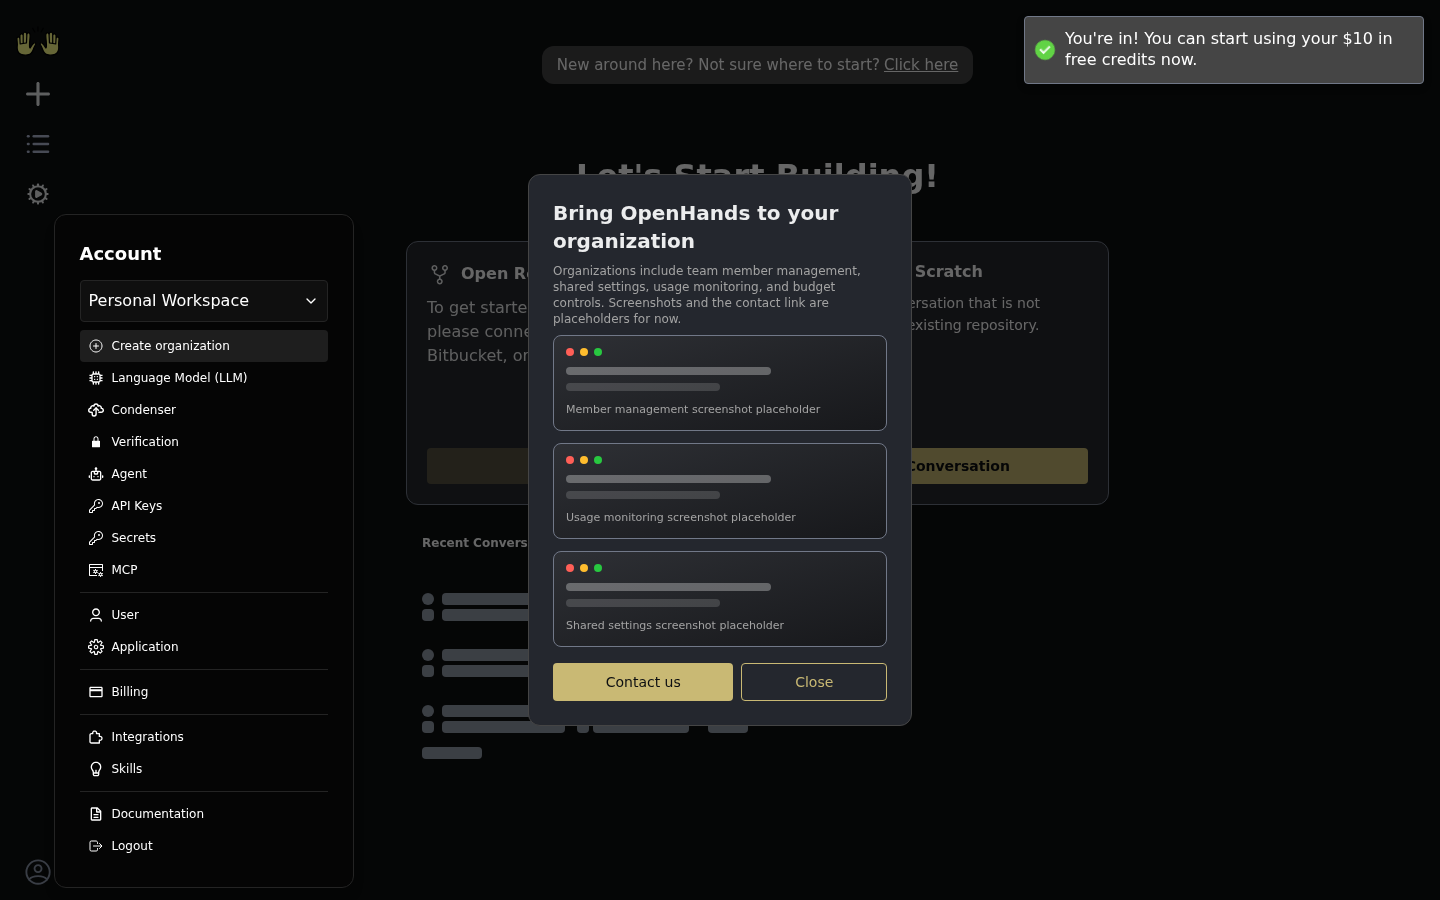
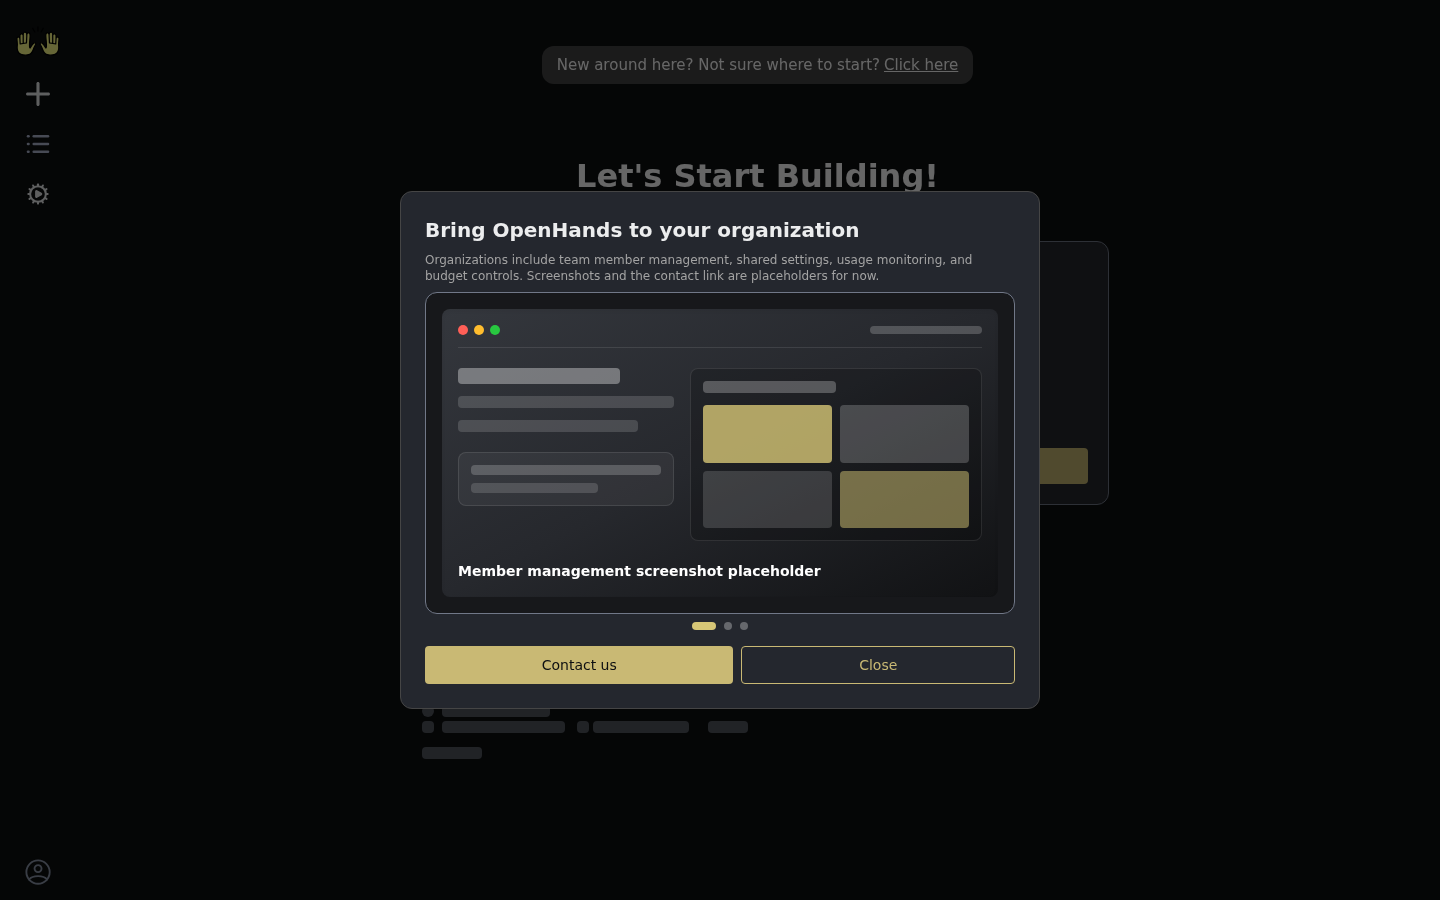
Polish organization preview carousel

diff --git a/frontend/src/components/features/org/organization-feature-preview-modal.tsx b/frontend/src/components/features/org/organization-feature-preview-modal.tsx
@@ -1,8 +1,12 @@
+import React from "react";
 import { useTranslation } from "react-i18next";
 import { OrgModal } from "#/components/shared/modals/org-modal";
 import { I18nKey } from "#/i18n/declaration";
+import { cn } from "#/utils/utils";
 
 const ORG_CONTACT_FORM_URL = "https://www.all-hands.dev/contact";
+const CAROUSEL_INTERVAL_MS = 3500;
+
 const screenshotPlaceholders = [
   I18nKey.ORG$FEATURE_PREVIEW_MEMBERS,
   I18nKey.ORG$FEATURE_PREVIEW_USAGE,
@@ -17,6 +21,20 @@ export function OrganizationFeaturePreviewModal({
   onClose,
 }: OrganizationFeaturePreviewModalProps) {
   const { t } = useTranslation();
+  const [activeSlide, setActiveSlide] = React.useState(0);
+  const hasMultipleSlides = screenshotPlaceholders.length > 1;
+
+  React.useEffect(() => {
+    if (!hasMultipleSlides) return undefined;
+
+    const interval = window.setInterval(() => {
+      setActiveSlide(
+        (currentSlide) => (currentSlide + 1) % screenshotPlaceholders.length,
+      );
+    }, CAROUSEL_INTERVAL_MS);
+
+    return () => window.clearInterval(interval);
+  }, [hasMultipleSlides]);
 
   return (
     <OrgModal
@@ -29,26 +47,69 @@ export function OrganizationFeaturePreviewModal({
       }
       onClose={onClose}
       ariaLabel={t(I18nKey.ORG$FEATURE_PREVIEW_TITLE)}
+      className="w-[92vw] max-w-[640px]"
     >
-      <div className="grid grid-cols-1 gap-3 w-full">
-        {screenshotPlaceholders.map((labelKey) => (
-          <div
-            key={labelKey}
-            className="h-24 rounded-lg border border-[#717888] bg-gradient-to-br from-[#2E3035] to-[#17181B] p-3 flex flex-col justify-between overflow-hidden"
-          >
-            <div className="flex gap-1.5">
-              <span className="h-2 w-2 rounded-full bg-[#FF5F57]" />
-              <span className="h-2 w-2 rounded-full bg-[#FFBD2E]" />
-              <span className="h-2 w-2 rounded-full bg-[#28C840]" />
+      <div className="w-full overflow-hidden rounded-xl border border-[#717888] bg-[#17181B]">
+        <div
+          className="flex transition-transform duration-700 ease-out"
+          style={{ transform: `translateX(-${activeSlide * 100}%)` }}
+        >
+          {screenshotPlaceholders.map((labelKey) => (
+            <div key={labelKey} className="min-w-full p-4">
+              <div className="h-72 rounded-lg bg-gradient-to-br from-[#34373D] via-[#26282D] to-[#111214] p-4 flex flex-col overflow-hidden shadow-inner">
+                <div className="flex items-center justify-between border-b border-white/10 pb-3">
+                  <div className="flex gap-1.5">
+                    <span className="h-2.5 w-2.5 rounded-full bg-[#FF5F57]" />
+                    <span className="h-2.5 w-2.5 rounded-full bg-[#FFBD2E]" />
+                    <span className="h-2.5 w-2.5 rounded-full bg-[#28C840]" />
+                  </div>
+                  <div className="h-2 w-28 rounded bg-white/20" />
+                </div>
+
+                <div className="grid flex-1 grid-cols-[1fr_1.35fr] gap-4 py-5">
+                  <div className="space-y-3">
+                    <div className="h-4 w-3/4 rounded bg-white/35" />
+                    <div className="h-3 w-full rounded bg-white/15" />
+                    <div className="h-3 w-5/6 rounded bg-white/15" />
+                    <div className="mt-5 space-y-2 rounded-lg border border-white/10 bg-white/5 p-3">
+                      <div className="h-2.5 w-full rounded bg-white/20" />
+                      <div className="h-2.5 w-2/3 rounded bg-white/15" />
+                    </div>
+                  </div>
+
+                  <div className="rounded-lg border border-white/10 bg-black/20 p-3">
+                    <div className="mb-3 h-3 w-1/2 rounded bg-white/25" />
+                    <div className="grid h-[calc(100%-1.5rem)] grid-cols-2 gap-2">
+                      <div className="rounded bg-[#D6C676]/80" />
+                      <div className="rounded bg-white/20" />
+                      <div className="rounded bg-white/15" />
+                      <div className="rounded bg-[#D6C676]/50" />
+                    </div>
+                  </div>
+                </div>
+
+                <span className="text-sm font-semibold text-white">
+                  {t(labelKey)}
+                </span>
+              </div>
             </div>
-            <div className="space-y-2">
-              <div className="h-2 w-2/3 rounded bg-white/30" />
-              <div className="h-2 w-1/2 rounded bg-white/15" />
-            </div>
-            <span className="text-[11px] text-modal-muted">{t(labelKey)}</span>
-          </div>
-        ))}
+          ))}
+        </div>
       </div>
+
+      {hasMultipleSlides && (
+        <div className="flex w-full justify-center gap-2" aria-hidden="true">
+          {screenshotPlaceholders.map((labelKey, index) => (
+            <span
+              key={labelKey}
+              className={cn(
+                "h-2 rounded-full transition-all duration-300",
+                activeSlide === index ? "w-6 bg-[#D6C676]" : "w-2 bg-white/30",
+              )}
+            />
+          ))}
+        </div>
+      )}
     </OrgModal>
   );
 }

diff --git a/frontend/src/components/shared/modals/org-modal.tsx b/frontend/src/components/shared/modals/org-modal.tsx
@@ -2,6 +2,7 @@ import React from "react";
 import { ModalBackdrop } from "./modal-backdrop";
 import { ModalBody } from "./modal-body";
 import { ModalButtonGroup } from "./modal-button-group";
+import { cn } from "#/utils/utils";
 
 interface OrgModalProps {
   testId?: string;
@@ -21,6 +22,7 @@ interface OrgModalProps {
   formAction?: (formData: FormData) => void;
   fullWidthButtons?: boolean;
   hideSecondaryButton?: boolean;
+  className?: string;
 }
 
 export function OrgModal({
@@ -41,6 +43,7 @@ export function OrgModal({
   formAction,
   fullWidthButtons = false,
   hideSecondaryButton = false,
+  className,
 }: OrgModalProps) {
   const content = (
     <>
@@ -66,8 +69,10 @@ export function OrgModal({
     </>
   );
 
-  const modalBodyClassName =
-    "items-start rounded-xl p-6 w-sm flex flex-col gap-4 bg-base-secondary border border-tertiary";
+  const modalBodyClassName = cn(
+    "items-start rounded-xl p-6 w-sm flex flex-col gap-4 bg-base-secondary border border-tertiary",
+    className,
+  );
 
   return (
     <ModalBackdrop
